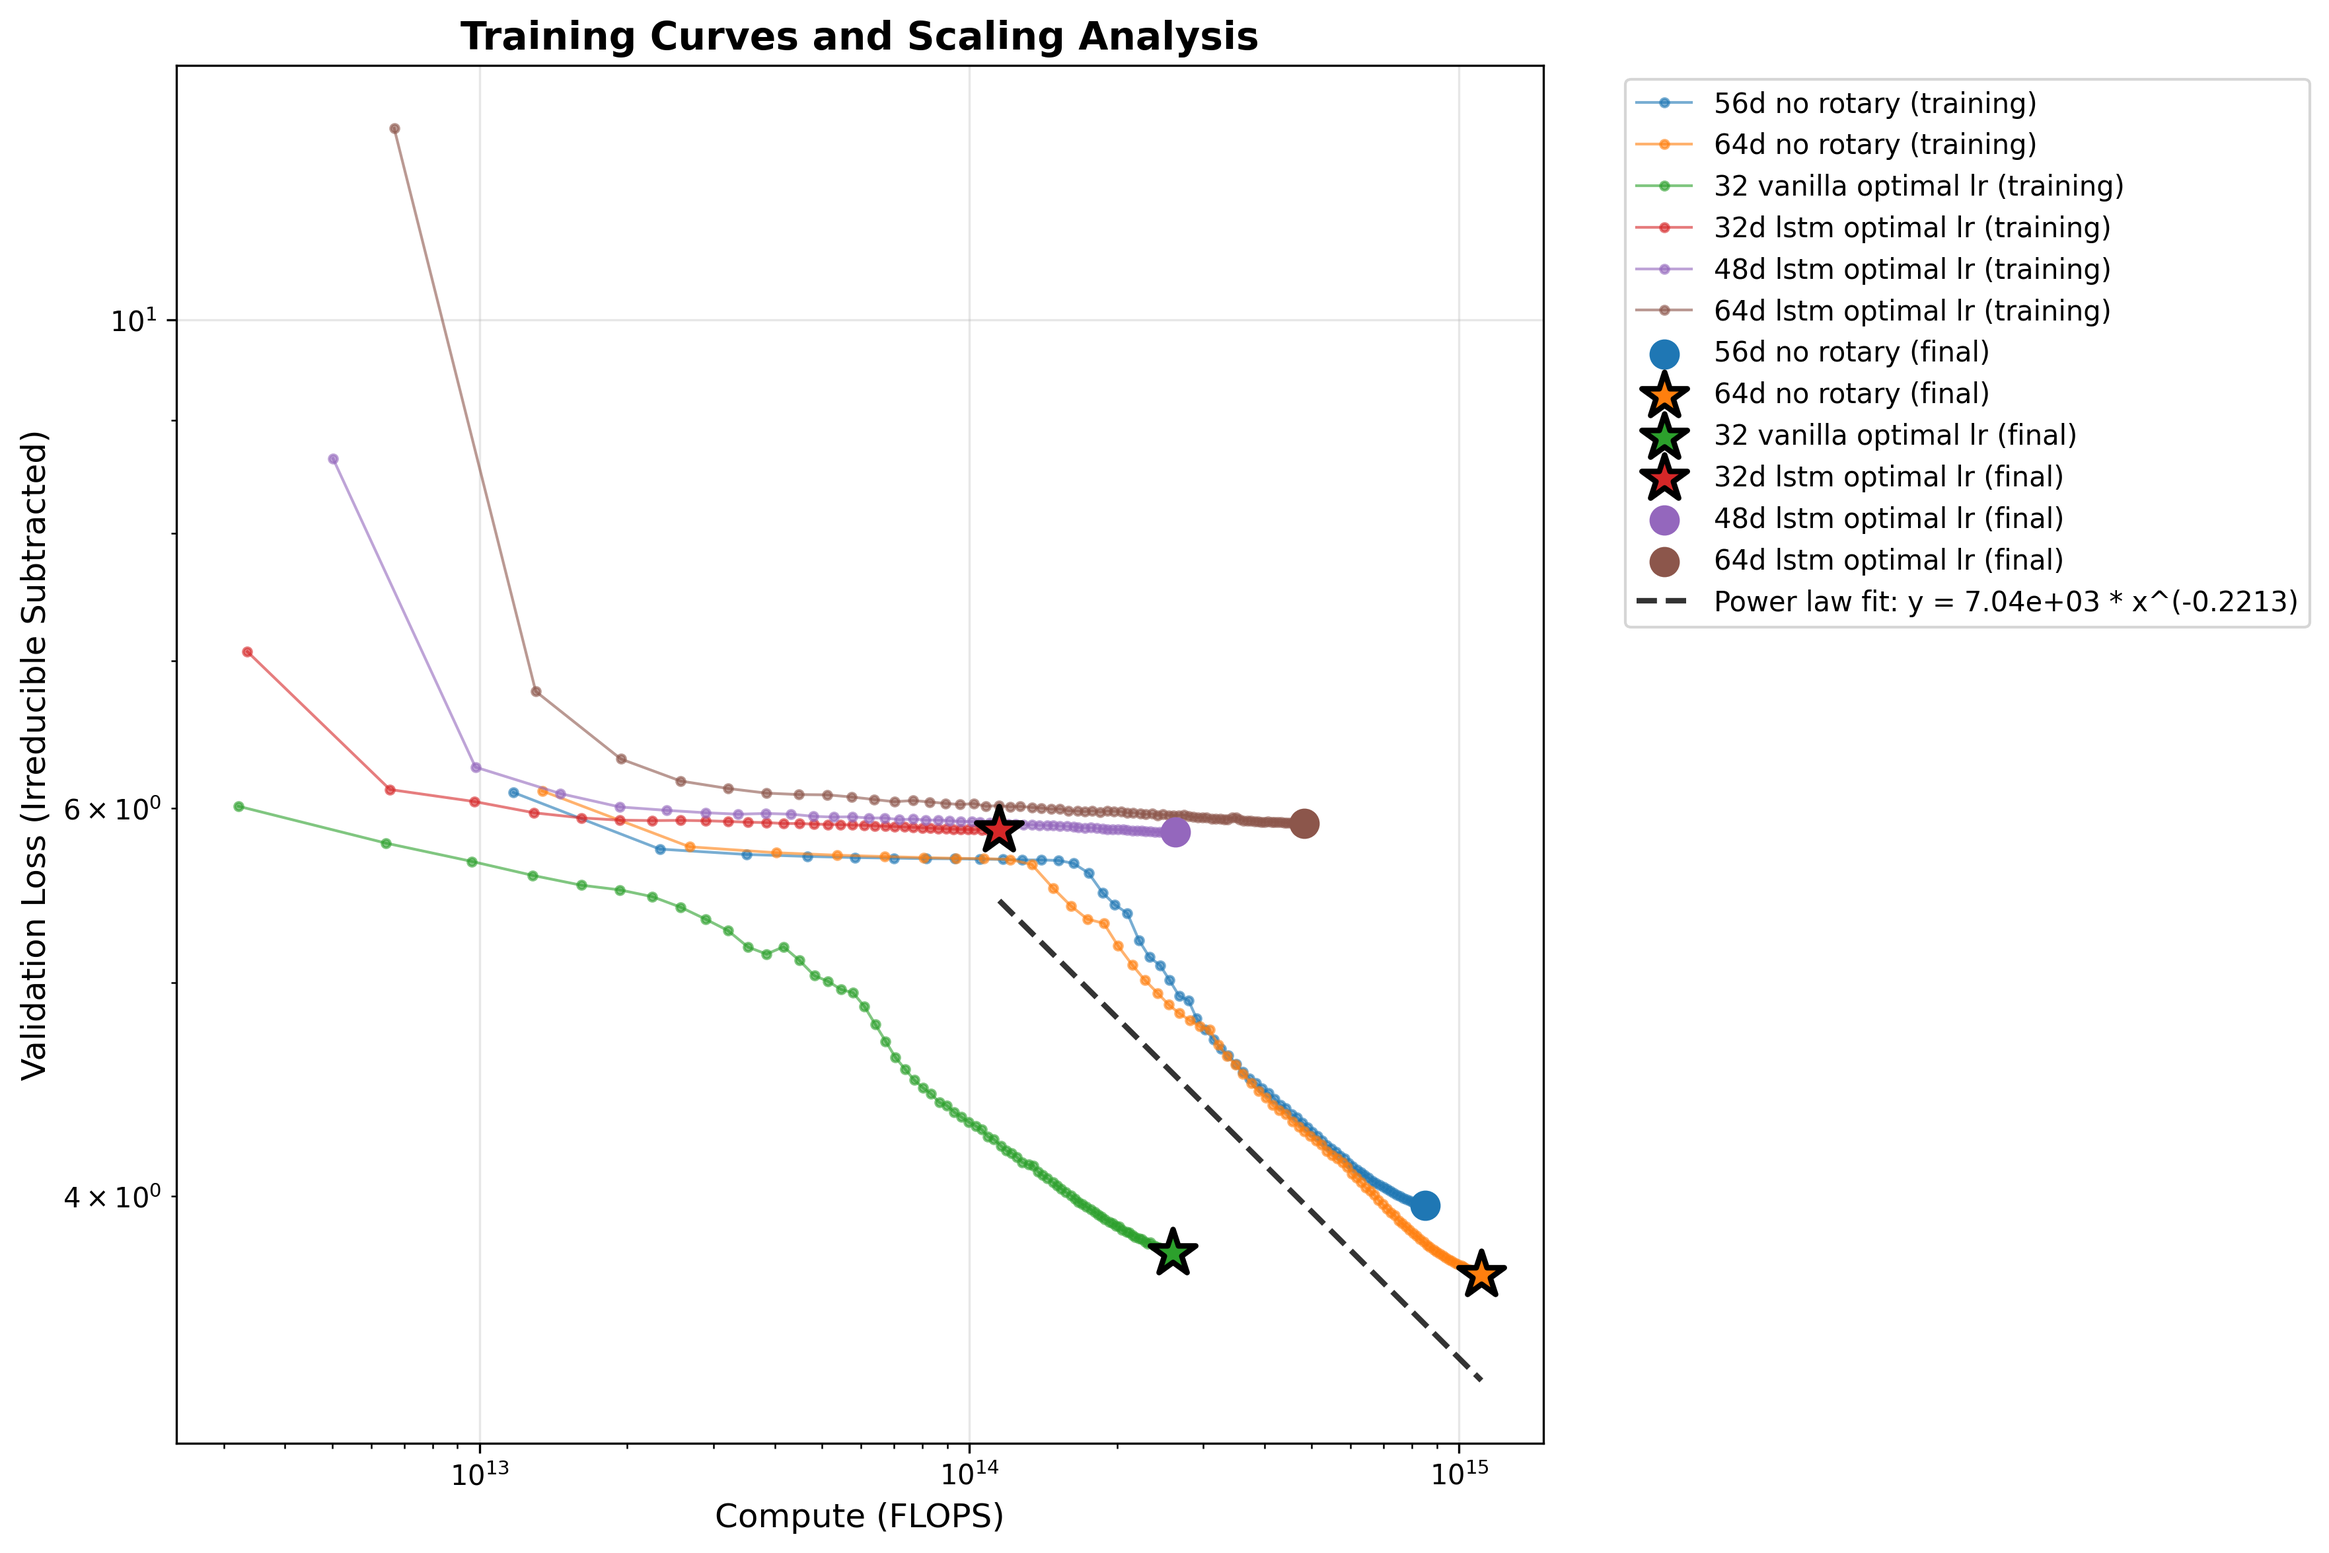
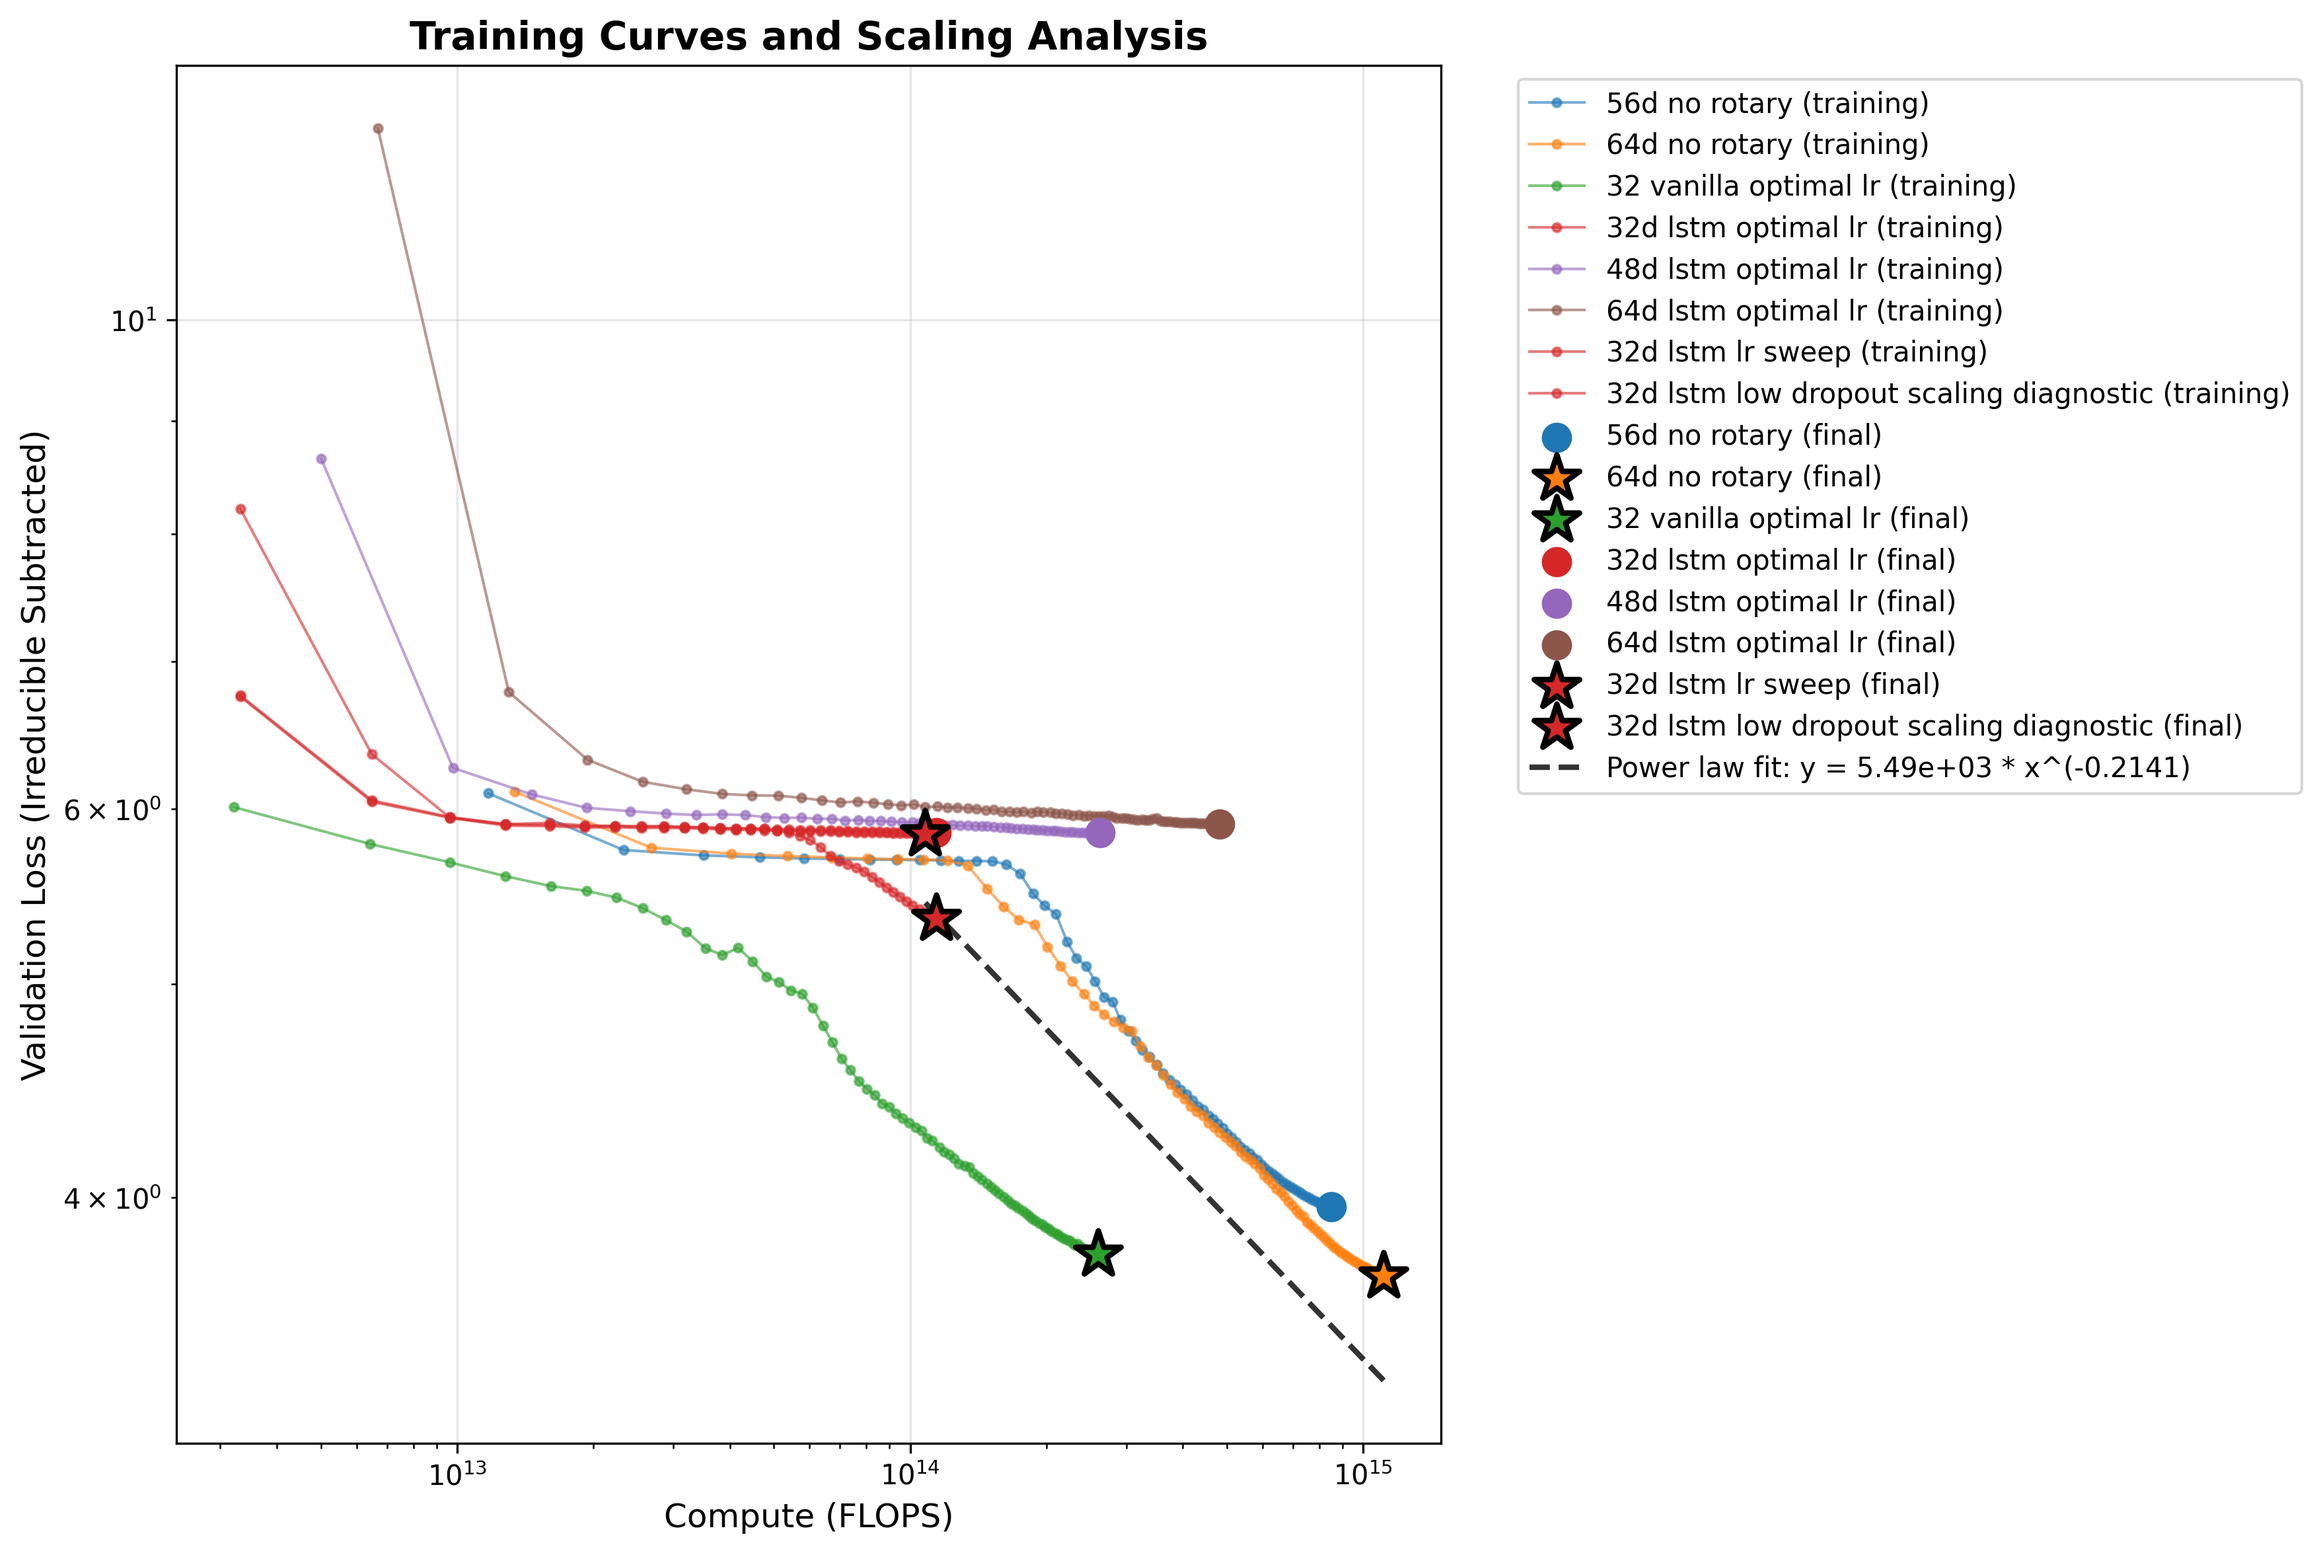
I'm starting to get good perforamnce with lstm

diff --git a/LSTM_model/lstm_training.py b/LSTM_model/lstm_training.py
@@ -99,6 +99,69 @@ def get_mup_learning_rates(model, base_lr, use_mup=False, mup_base_width=64):
 cudnn.benchmark = True
 
 
+def tbptt_forward_backward(model, inputs, targets, hidden, criterion, use_amp, scaler, 
+                          tbptt_length, gradient_accumulation_steps, get_vocab_size_fn):
+    """
+    Perform truncated BPTT forward and backward pass.
+    
+    Args:
+        model: LSTM model
+        inputs: Input tokens [batch_size, sequence_length]  
+        targets: Target tokens [batch_size, sequence_length]
+        hidden: Initial hidden state tuple (h, c)
+        criterion: Loss function
+        use_amp: Whether to use automatic mixed precision
+        scaler: GradScaler for mixed precision
+        tbptt_length: Window length for truncated BPTT
+        gradient_accumulation_steps: Number of gradient accumulation steps
+        get_vocab_size_fn: Function to get vocabulary size
+    
+    Returns:
+        total_loss: Accumulated loss over all windows
+        final_hidden: Final hidden state (detached)
+    """
+    batch_size, full_sequence_length = inputs.size()
+    total_loss = 0.0
+    
+    # Process sequence in windows of tbptt_length
+    for start_idx in range(0, full_sequence_length, tbptt_length):
+        end_idx = min(start_idx + tbptt_length, full_sequence_length)
+        window_inputs = inputs[:, start_idx:end_idx]
+        window_targets = targets[:, start_idx:end_idx]
+        
+        # Forward pass through this window
+        if use_amp:
+            with autocast():
+                window_outputs, hidden = model(window_inputs, hidden)
+                # Detach hidden state to truncate gradients at window boundary
+                hidden = tuple(h.detach() for h in hidden)
+                
+                # Compute loss for this window
+                window_outputs = window_outputs.view(-1, get_vocab_size_fn())
+                window_targets_reshaped = window_targets.view(-1)
+                window_loss = criterion(window_outputs, window_targets_reshaped) / gradient_accumulation_steps
+                
+            # Backward pass for this window
+            scaler.scale(window_loss).backward()
+        else:
+            # Regular precision
+            window_outputs, hidden = model(window_inputs, hidden)
+            # Detach hidden state to truncate gradients at window boundary  
+            hidden = tuple(h.detach() for h in hidden)
+            
+            # Compute loss for this window
+            window_outputs = window_outputs.view(-1, get_vocab_size_fn())
+            window_targets_reshaped = window_targets.view(-1)
+            window_loss = criterion(window_outputs, window_targets_reshaped) / gradient_accumulation_steps
+            
+            # Backward pass for this window
+            window_loss.backward()
+            
+        total_loss += window_loss.item()
+    
+    return total_loss * gradient_accumulation_steps, hidden  # Scale back loss for logging
+
+
 class WikiTextDataset(Dataset):
     """Dataset of fixed‐length sequences with configurable stride."""
 
@@ -919,6 +982,16 @@ def train_model(
     print(
         f"Gradient Accumulation: {gradient_accumulation_steps} steps (Effective batch size: {effective_batch_size})"
     )
+    
+    # Print TBPTT configuration
+    use_tbptt = config.get("use_tbptt", True)
+    if use_tbptt:
+        tbptt_length = config.get("tbptt_length", 128)
+        tbptt_stride = config.get("tbptt_stride", 128)
+        tbptt_reset_hidden = config.get("tbptt_reset_hidden", True)
+        print(f"Truncated BPTT: Enabled (length={tbptt_length}, stride={tbptt_stride}, reset_hidden={tbptt_reset_hidden})")
+    else:
+        print("Truncated BPTT: Disabled (using full sequence with hidden detaching)")
 
     # Calculate total steps and warmup steps for step-based schedulers
     steps_per_epoch = math.ceil(len(train_loader) / gradient_accumulation_steps)
@@ -1055,9 +1128,35 @@ def train_model(
                     )
                 flop_counter.add_batch_flops(microbatches_this_step)
 
-            # Forward pass with mixed precision
-            if use_amp:
-                with autocast():
+            # Choose forward/backward method based on TBPTT configuration
+            if config.get("use_tbptt", True):
+                # Use truncated BPTT
+                tbptt_length = config.get("tbptt_length", 128)
+                loss_value, hidden = tbptt_forward_backward(
+                    model, inputs, targets, hidden, criterion, use_amp, scaler,
+                    tbptt_length, gradient_accumulation_steps, get_vocab_size
+                )
+                # Convert loss value to tensor for consistent interface
+                loss = torch.tensor(loss_value / gradient_accumulation_steps, device=device)
+            else:
+                # Original method: full sequence forward pass with hidden state detaching
+                if use_amp:
+                    with autocast():
+                        outputs, hidden = model(inputs, hidden)
+                        # Detach hidden state to treat it as a new input, preventing BPTT through all time
+                        hidden = tuple(h.detach() for h in hidden)
+                        outputs = outputs.view(-1, get_vocab_size())
+                        targets_reshaped = targets.view(-1)
+                        # Scale loss by accumulation steps
+                        loss = (
+                            criterion(outputs, targets_reshaped)
+                            / gradient_accumulation_steps
+                        )
+
+                    # Mixed precision backward pass
+                    scaler.scale(loss).backward()
+                else:
+                    # Regular precision
                     outputs, hidden = model(inputs, hidden)
                     # Detach hidden state to treat it as a new input, preventing BPTT through all time
                     hidden = tuple(h.detach() for h in hidden)
@@ -1065,24 +1164,9 @@ def train_model(
                     targets_reshaped = targets.view(-1)
                     # Scale loss by accumulation steps
                     loss = (
-                        criterion(outputs, targets_reshaped)
-                        / gradient_accumulation_steps
+                        criterion(outputs, targets_reshaped) / gradient_accumulation_steps
                     )
-
-                # Mixed precision backward pass
-                scaler.scale(loss).backward()
-            else:
-                # Regular precision
-                outputs, hidden = model(inputs, hidden)
-                # Detach hidden state to treat it as a new input, preventing BPTT through all time
-                hidden = tuple(h.detach() for h in hidden)
-                outputs = outputs.view(-1, get_vocab_size())
-                targets_reshaped = targets.view(-1)
-                # Scale loss by accumulation steps
-                loss = (
-                    criterion(outputs, targets_reshaped) / gradient_accumulation_steps
-                )
-                loss.backward()
+                    loss.backward()
 
             # Update epoch statistics
             epoch_loss += (

diff --git a/LSTM_model/lstm_experiment_definitions.py b/LSTM_model/lstm_experiment_definitions.py
@@ -81,7 +81,117 @@ LSTM_SGD_ALL_SCALE_LR_TUNE = create_multi_lr_experiments(
 )
 
 
-GRAND_EXPERIMENT = LSTM_SCALING_EXPERIMENTS_OPTIMAL_LR
+# TBPTT comparison experiments
+TBPTT_COMPARISON_EXPERIMENTS = (
+    gen_lstm_experim(
+        32,
+        label="32d_lstm_tbptt_default",
+        folder_name="tbptt_comparison",
+        learning_rate=0.01,
+        use_tbptt=True,
+        tbptt_length=128,
+        tbptt_stride=128,
+    )
+    + gen_lstm_experim(
+        32,
+        label="32d_lstm_tbptt_disabled",
+        folder_name="tbptt_comparison",
+        learning_rate=0.01,
+        use_tbptt=False,
+    )
+    + gen_lstm_experim(
+        32,
+        label="32d_lstm_tbptt_64_length",
+        folder_name="tbptt_comparison",
+        learning_rate=0.01,
+        use_tbptt=True,
+        tbptt_length=64,
+        tbptt_stride=64,
+    )
+)
+
+# Diagnostic experiments to fix scaling plateau
+LSTM_SCALING_DIAGNOSTIC = (
+    # Test higher learning rates
+    gen_lstm_experim(
+        32,
+        label="32d_lstm_lr_aggressive",
+        folder_name="lstm_scaling_diagnostic",
+        learning_rate=0.01,  # 5x higher than current
+        warmup_frac=0.05,  # 5x longer warmup
+        use_tbptt=False,  # Disable TBPTT initially
+    )
+    + gen_lstm_experim(
+        32,
+        label="32d_lstm_lr_very_aggressive",
+        folder_name="lstm_scaling_diagnostic",
+        learning_rate=0.03,  # 15x higher
+        warmup_frac=0.1,  # 10x longer warmup
+        use_tbptt=False,
+    )
+    # Test lower dropout
+    + gen_lstm_experim(
+        32,
+        label="32d_lstm_low_dropout",
+        folder_name="lstm_scaling_diagnostic",
+        learning_rate=0.01,
+        input_dropout=0.05,  # Much lower
+        hidden_dropout=0.0,  # No hidden dropout
+        output_dropout=0.1,  # Lower output dropout
+        warmup_frac=0.05,
+        use_tbptt=False,
+    )
+    # Test longer sequences with TBPTT
+    + gen_lstm_experim(
+        32,
+        label="32d_lstm_long_seq",
+        folder_name="lstm_scaling_diagnostic",
+        learning_rate=0.01,
+        sequence_length=256,  # 2x longer sequences
+        tbptt_length=128,  # Half the sequence length
+        warmup_frac=0.05,
+        use_tbptt=True,
+    )
+    #
+)
+
+
+# test no dropu
+GRAND_EXPERIMENT = (
+    gen_lstm_experim(
+        32,
+        label="32d_lstm_no_dropout_0.05_warmup",
+        folder_name="lstm_scaling_diagnostic",
+        learning_rate=0.01,
+        input_dropout=0.0,  # Much lower
+        hidden_dropout=0.0,  # No hidden dropout
+        output_dropout=0.0,  # Lower output dropout
+        warmup_frac=0.05,
+        use_tbptt=False,
+    )
+    + gen_lstm_experim(
+        32,
+        label="32d_lstm_low_dropout_0.02_warmup",
+        folder_name="lstm_scaling_diagnostic",
+        learning_rate=0.01,
+        input_dropout=0.05,  # Much lower
+        hidden_dropout=0.0,  # No hidden dropout
+        output_dropout=0.1,  # Lower output dropout
+        warmup_frac=0.02,
+        use_tbptt=False,
+    )
+    + gen_lstm_experim(
+        32,
+        label="32d_lstm_low_dropout_0.02_warmup_testtbptt",
+        folder_name="lstm_scaling_diagnostic",
+        learning_rate=0.01,
+        input_dropout=0.05,  # Much lower
+        hidden_dropout=0.0,  # No hidden dropout
+        output_dropout=0.1,  # Lower output dropout
+        warmup_frac=0.02,
+        use_tbptt=True,
+    )
+)
 
 # lr_tune_experiments standard
 # LSTM_LR_TUNE_STANDARD = create_multi_lr_experiments(

diff --git a/experimental_analysis/debugging_scaling_lstm.py b/experimental_analysis/debugging_scaling_lstm.py
@@ -468,6 +468,27 @@ if __name__ == "__main__":
             "class": "lstm",
             "hidden_dim": 64,
         },
+        # lr sweep lstm
+        {
+            "name": "32d lstm lr sweep",
+            "csv_path": "../experimental_data_folder/lstm_scaling_lr_sweep/32d_lstm_experiment_lr_10e2.csv",
+            "marker": "o",
+            "include_in_frontier": True,  # Include in frontier analysis
+            "class": "lstm",
+            "color": "tab:red",
+            "hidden_dim": 32,
+        },
+        #low drouput scaling diagnostic
+        {
+            "name": "32d lstm low dropout scaling diagnostic",
+            "csv_path": "../experimental_data_folder/lstm_scaling_diagnostic/32d_lstm_low_dropout.csv",
+            "marker": "o",
+            "include_in_frontier": True,  # Include in frontier analysis
+            "class": "lstm",
+            "color": "tab:red",
+            "hidden_dim": 32,
+        },
+
     ]
 
     # Add experiments
@@ -503,4 +524,5 @@ if __name__ == "__main__":
         save_path="Figures/universal_scaling_law_study_full_model.png",
     )
 
+# %
 # %%

diff --git a/LSTM_model/lstm_experiment_utils.py b/LSTM_model/lstm_experiment_utils.py
@@ -311,7 +311,7 @@ def get_lstm_base_config():
         "lr_schedule": "cosine_warmup",
         "warmup_frac": 0.01,  # 10% warmup steps
         "min_lr_multiplier": 0.1,  # Min LR as 1% of base LR
-        "scheduler_type": "step",
+        # "scheduler_type": "step",
         "step_size": 10,
         "gamma": 0.1,
         "num_epochs": 1,
@@ -346,6 +346,11 @@ def get_lstm_base_config():
         "use_mup": False,
         "mup_base_width": 16,
         "tie_embeddings": True,  # Enable weight tying by default
+        # Truncated BPTT parameters
+        "use_tbptt": True,  # Enable truncated BPTT by default
+        "tbptt_length": 128,  # Window length L (number of timesteps to backprop through)
+        "tbptt_stride": 128,  # Stride S (usually equal to tbptt_length for non-overlapping windows)
+        "tbptt_reset_hidden": True,  # Reset hidden state at sequence boundaries
     }
 
 
